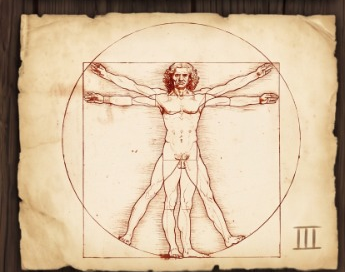
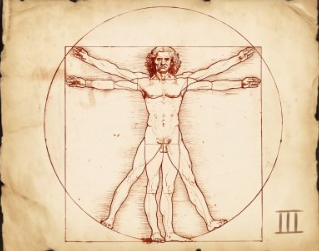
feat: isolate each of the 8 parchment sheets individually without wooden border frames

diff --git a/frontend/index.html b/frontend/index.html
@@ -16,7 +16,7 @@
     <link rel="preconnect" href="https://fonts.gstatic.com" crossorigin />
     <link href="https://fonts.googleapis.com/css2?family=Plus+Jakarta+Sans:wght@500;600;700;800&display=swap" rel="stylesheet" />
     
-    <link rel="stylesheet" href="./assets/css/main.css?v=2.6" />
+    <link rel="stylesheet" href="./assets/css/main.css?v=2.7" />
 
     <script>
       // Global splash screen dismissal
@@ -90,6 +90,6 @@
       }
     </style>
 
-    <script type="module" src="./app.js?v=2.6"></script>
+    <script type="module" src="./app.js?v=2.7"></script>
   </body>
 </html>

diff --git a/index.html b/index.html
@@ -16,7 +16,7 @@
     <link rel="preconnect" href="https://fonts.gstatic.com" crossorigin />
     <link href="https://fonts.googleapis.com/css2?family=Plus+Jakarta+Sans:wght@500;600;700;800&display=swap" rel="stylesheet" />
     
-    <link rel="stylesheet" href="./assets/css/main.css?v=2.6" />
+    <link rel="stylesheet" href="./assets/css/main.css?v=2.7" />
 
     <script>
       // Global splash screen dismissal
@@ -90,6 +90,6 @@
       }
     </style>
 
-    <script type="module" src="./app.js?v=2.6"></script>
+    <script type="module" src="./app.js?v=2.7"></script>
   </body>
 </html>

diff --git a/assets/css/main.css b/assets/css/main.css
@@ -369,16 +369,16 @@ html, body {
 
 .level-card-image-wrap {
   width: 100%;
-  aspect-ratio: 350 / 260;
+  aspect-ratio: 319 / 240;
   overflow: hidden;
   display: flex;
   align-items: center;
   justify-content: center;
-  background: #1c1510;
+  background: var(--card-bg, #ffffff);
 }
 
 .dark-theme .level-card-image-wrap {
-  background: #120d09;
+  background: #1e293b;
 }
 
 .level-card-img {

diff --git a/frontend/assets/css/main.css b/frontend/assets/css/main.css
@@ -369,16 +369,16 @@ html, body {
 
 .level-card-image-wrap {
   width: 100%;
-  aspect-ratio: 350 / 260;
+  aspect-ratio: 319 / 240;
   overflow: hidden;
   display: flex;
   align-items: center;
   justify-content: center;
-  background: #1c1510;
+  background: var(--card-bg, #ffffff);
 }
 
 .dark-theme .level-card-image-wrap {
-  background: #120d09;
+  background: #1e293b;
 }
 
 .level-card-img {
